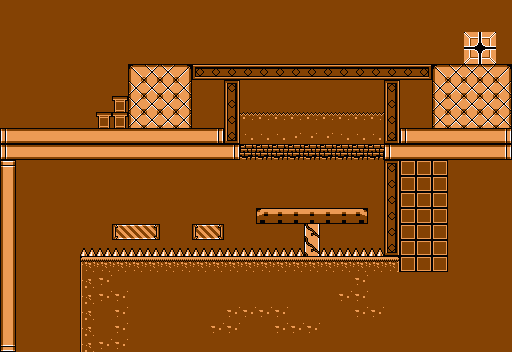
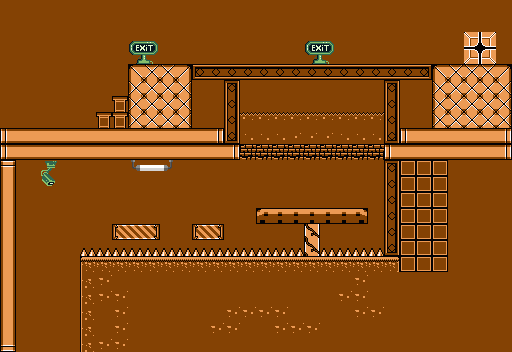
tuto++
tuto++

diff --git a/assets/tiled/Sprite-0001-Sheet.tsx b/assets/tiled/Sprite-0001-Sheet.tsx
@@ -1,0 +1,4 @@
+<?xml version="1.0" encoding="UTF-8"?>
+<tileset version="1.5" tiledversion="1.7.2" name="Sprite-0001-Sheet" tilewidth="16" tileheight="16" tilecount="12" columns="6">
+ <image source="../sprites/Sprite-0001-Sheet.png" width="96" height="32"/>
+</tileset>
